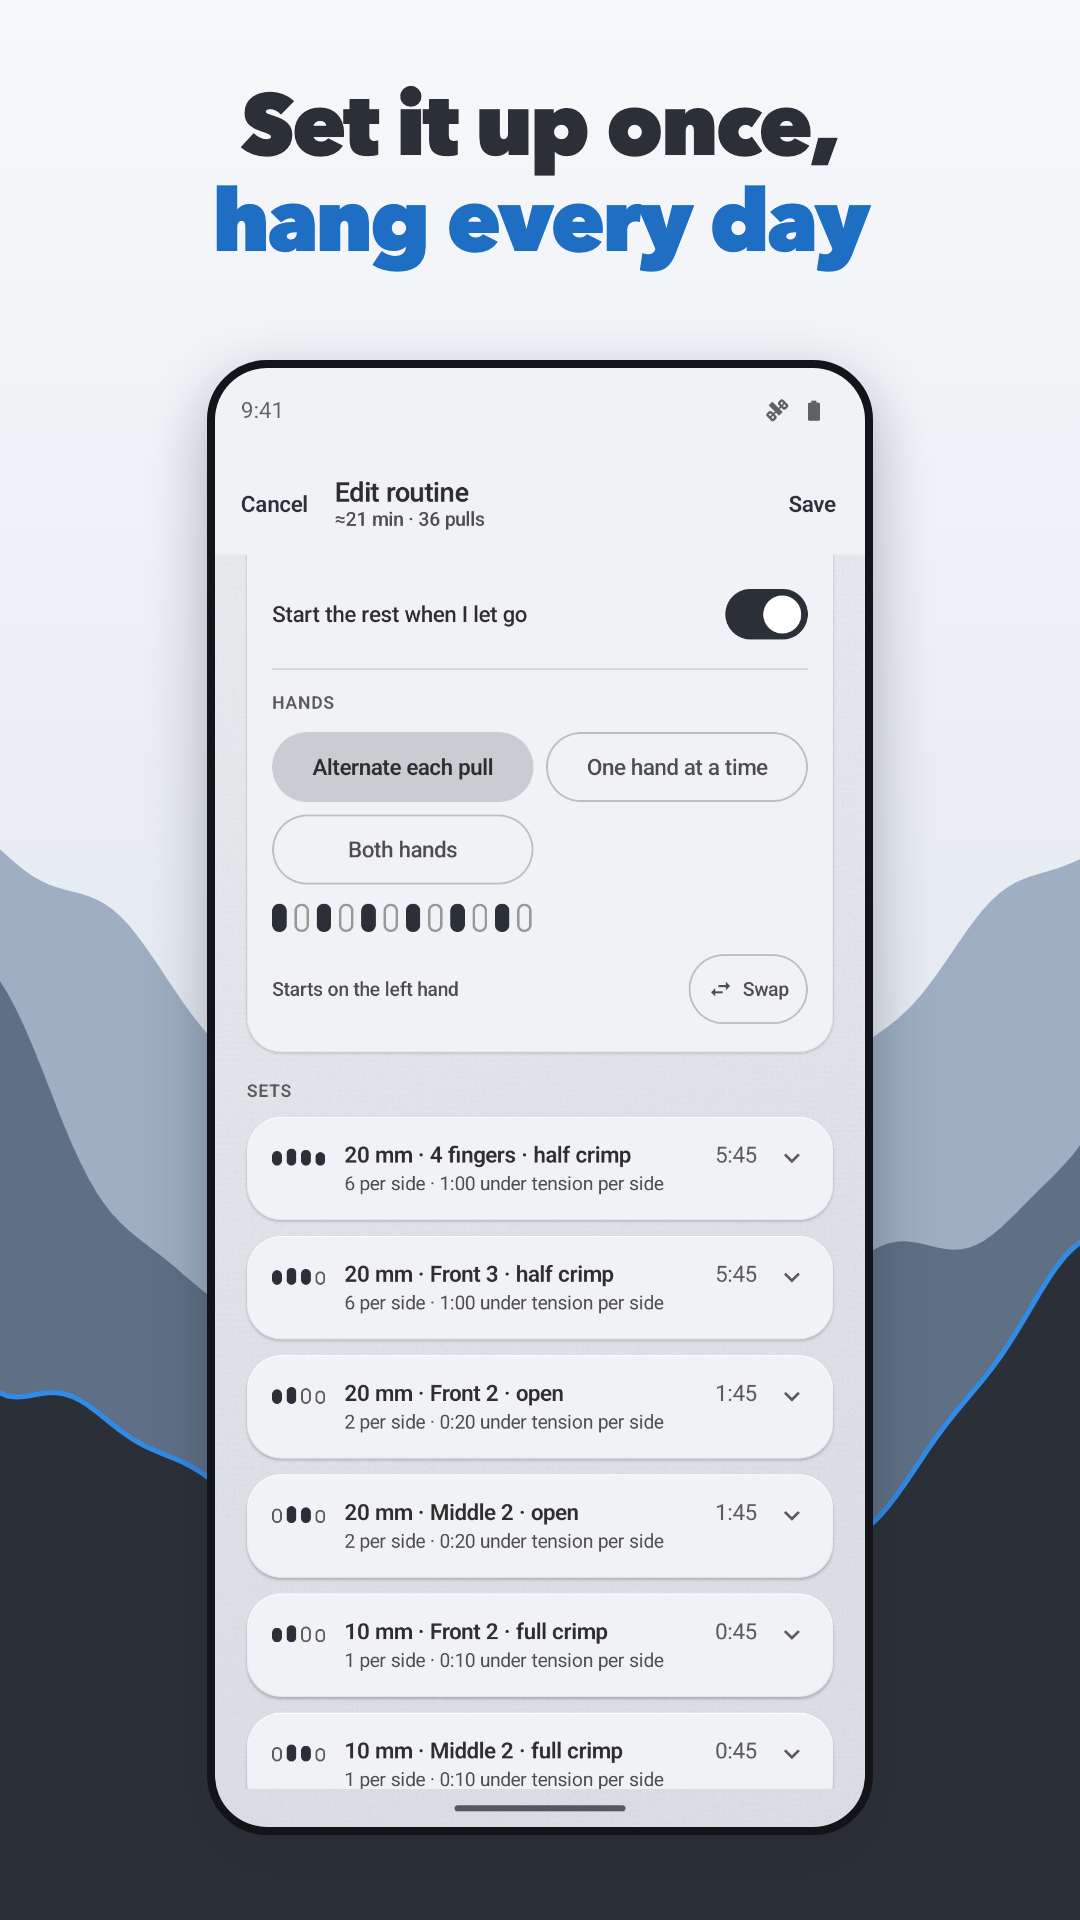
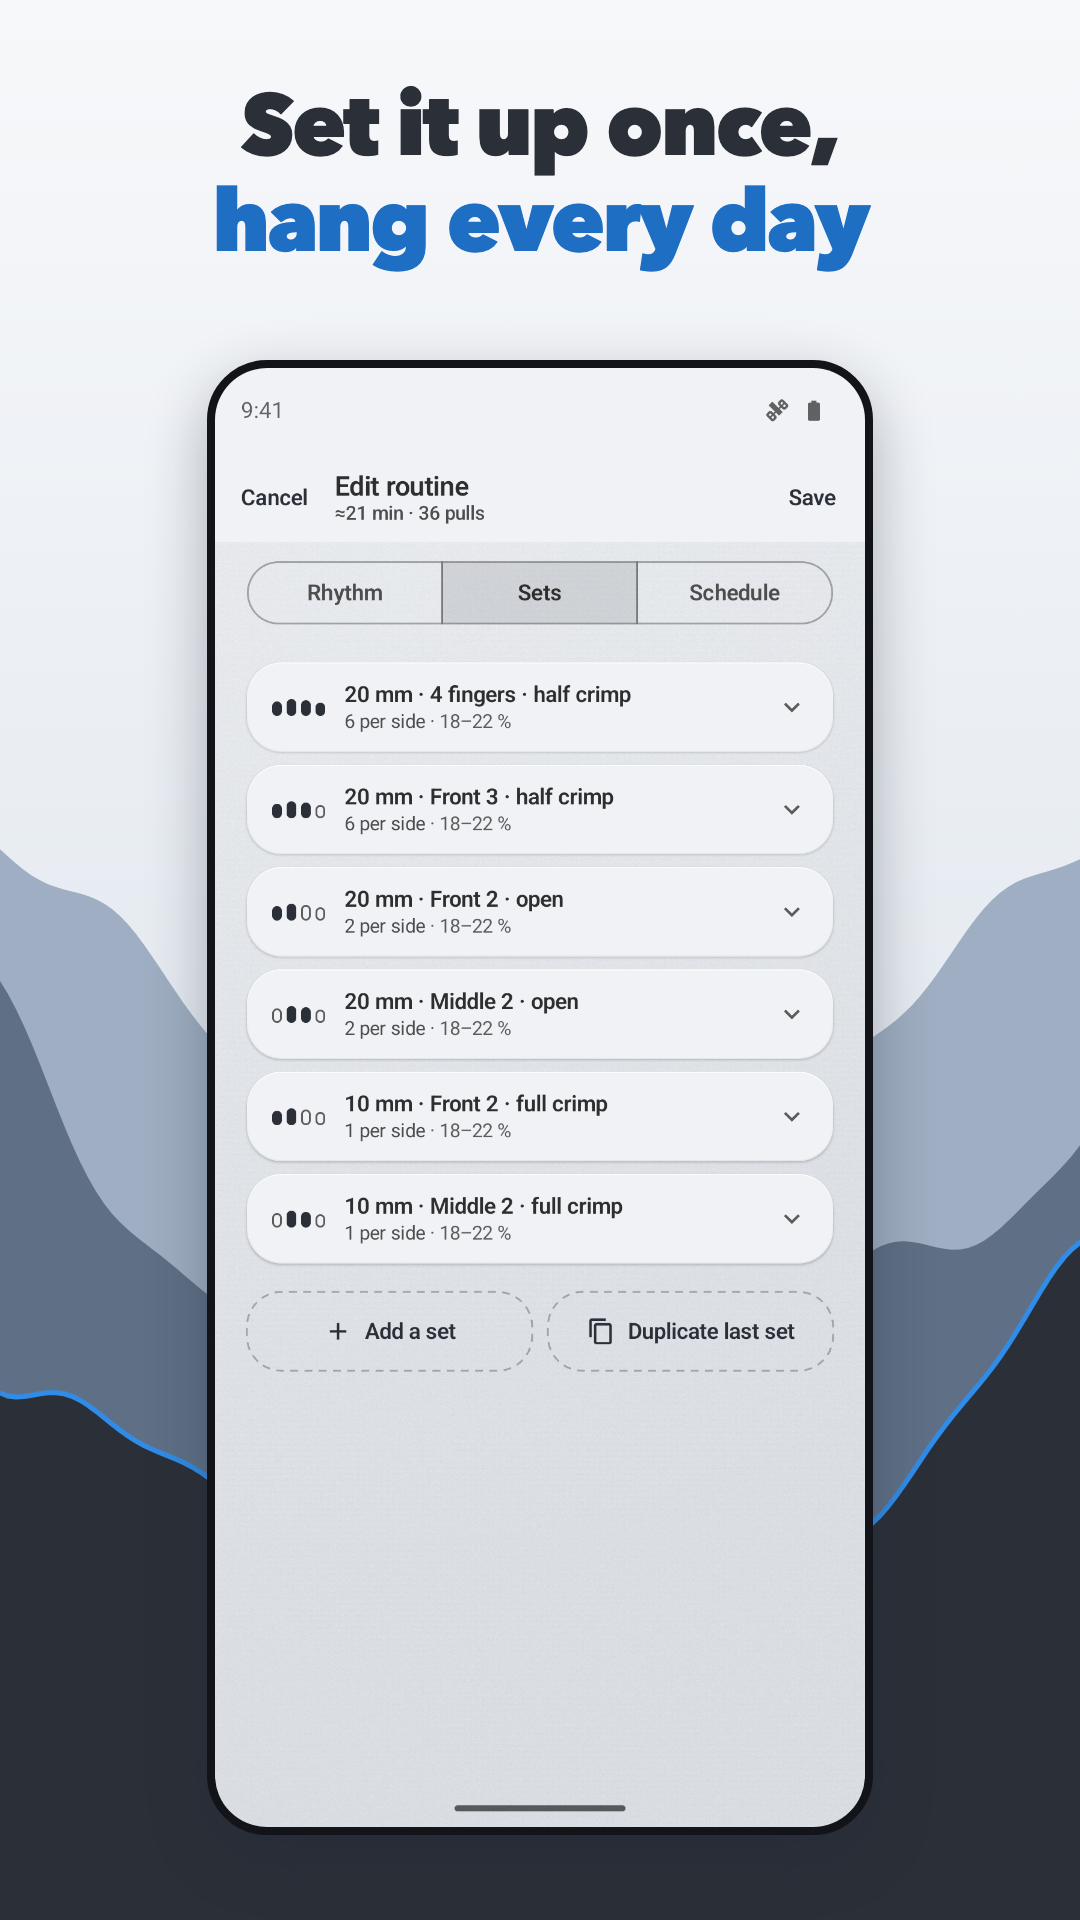
Play screenshot 06: the three-page builder's Sets page

diff --git a/android/store/README.md b/android/store/README.md
@@ -41,7 +41,8 @@ previous world. Tap the gauge chip to connect the demo device.
   its per-pull bars read as gaps.
 - `05_history`: History scrolled so the calendar and the load-per-grip chart share the
   screen.
-- `06_builder`: the routine's overview › Edit routine, scrolled to the sets.
+- `06_builder`: the routine's overview › Edit routine › the Sets page, every set collapsed.
+  Picked over Rhythm, which carries the "some grips have no max" warning against the seeds.
 
 The store icon is derived from the app's actual launcher paths. Screenshot framing does
 not alter the app UI or force readings.
